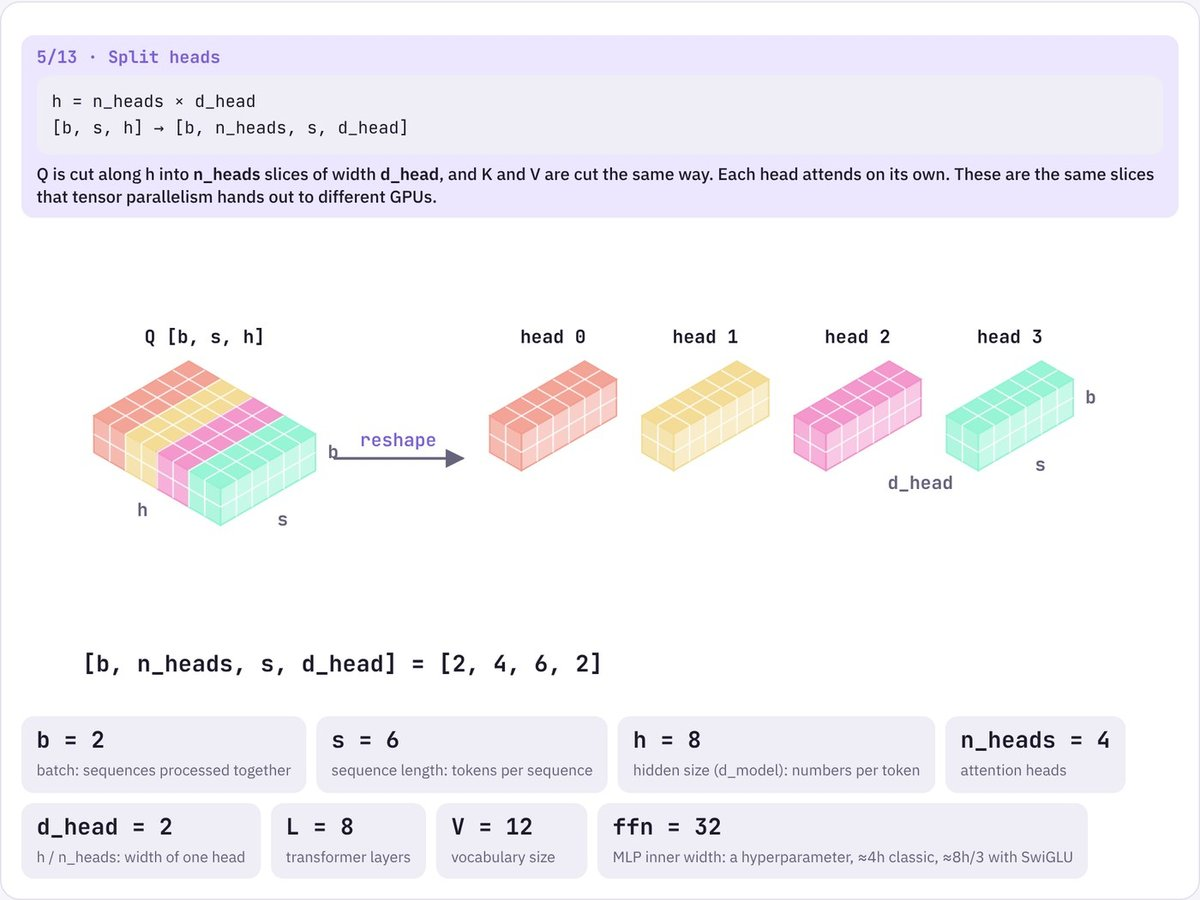
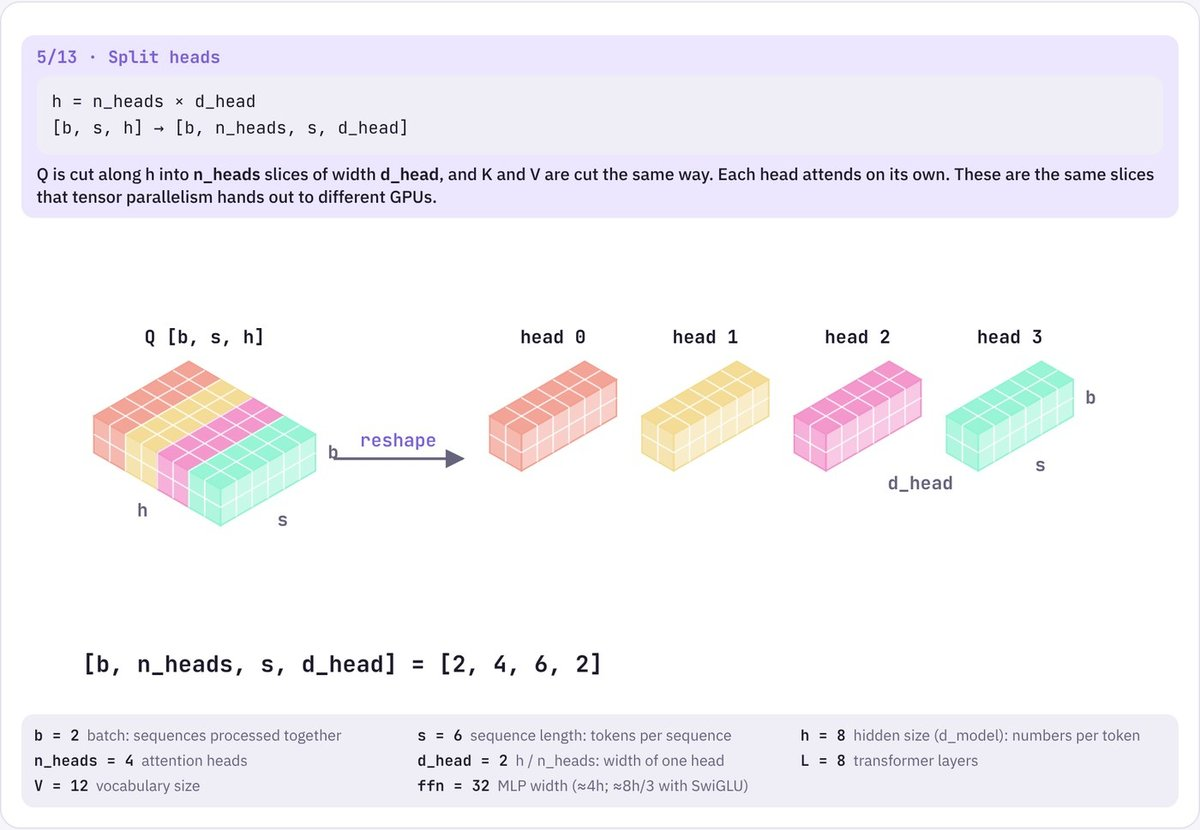
chore(posts): refresh figures (compact size list) (#25)
Claude-Session: https://claude.ai/code/session_01UFQWSUsJMaVbTV8uBDUF1U

diff --git a/posts/2026-11-14-how-llm-inference-works-visual-guide/index.html b/posts/2026-11-14-how-llm-inference-works-visual-guide/index.html
@@ -7,7 +7,7 @@
   <meta name="description" content="What a transformer computes at each step, and how serving systems make it fast: batching, KV cache, parallelism, attention variants and more, each shown as a visual of tensor shapes.">
   <meta property="og:title" content="How LLM Inference Works: A Visual Guide to the Core Concepts">
   <meta property="og:description" content="What a transformer computes at each step, and how serving systems make it fast: batching, KV cache, parallelism, attention variants and more, each shown as a visual of tensor shapes.">
-  <meta property="og:image" content="https://raw.githubusercontent.com/ylnhari/blog/main/posts/2026-11-14-how-llm-inference-works-visual-guide/images/01-architecture.jpg?v=5">
+  <meta property="og:image" content="https://raw.githubusercontent.com/ylnhari/blog/main/posts/2026-11-14-how-llm-inference-works-visual-guide/images/01-architecture.jpg?v=6">
   <title>How LLM Inference Works: A Visual Guide to the Core Concepts</title>
   <link rel="stylesheet" href="../../assets/style.css">
 </head>
@@ -42,7 +42,7 @@
 
 <p>A language model has exactly one job: <strong>given the text so far, predict the next token</strong>. A token is a word or a piece of a word. Everything else is machinery for that single prediction. Here is the machinery, in the shape almost every modern model uses (GPT, Llama, Claude, Gemini, Mistral). Data flows from the bottom to the top:</p>
 
-<img src="https://raw.githubusercontent.com/ylnhari/blog/main/posts/2026-11-14-how-llm-inference-works-visual-guide/images/01-architecture.jpg?v=5" alt="The decoder-only transformer, bottom to top: the tokenizer turns text into IDs, the embedding turns IDs into vectors, then a block of norm, attention, add, norm, MLP, add repeats L times, and finally an LM head and softmax pick the next token, which is appended to the input for the next round.">
+<img src="https://raw.githubusercontent.com/ylnhari/blog/main/posts/2026-11-14-how-llm-inference-works-visual-guide/images/01-architecture.jpg?v=6" alt="The decoder-only transformer, bottom to top: the tokenizer turns text into IDs, the embedding turns IDs into vectors, then a block of norm, attention, add, norm, MLP, add repeats L times, and finally an LM head and softmax pick the next token, which is appended to the input for the next round.">
 
 <p>In plain words:</p>
 
@@ -67,7 +67,7 @@
 
 <p>The query of "it" is compared with the key of every earlier word. A step called <strong>softmax</strong> turns those match scores into shares that add up to 100%. The best matches get the biggest share, and the new vector for "it" becomes a weighted mix of their values:</p>
 
-<img src="https://raw.githubusercontent.com/ylnhari/blog/main/posts/2026-11-14-how-llm-inference-works-visual-guide/images/02-attention.jpg?v=5" alt="Attention for the query "it": arcs show most of the weight, 65%, going to "animal", so the new vector for "it" is mostly the meaning of "animal". Below, the three steps: raw scores, softmax weights, and the mixed output.">
+<img src="https://raw.githubusercontent.com/ylnhari/blog/main/posts/2026-11-14-how-llm-inference-works-visual-guide/images/02-attention.jpg?v=6" alt="Attention for the query "it": arcs show most of the weight, 65%, going to "animal", so the new vector for "it" is mostly the meaning of "animal". Below, the three steps: raw scores, softmax weights, and the mixed output.">
 
 <p>A model runs many of these lookups side by side, called <strong>heads</strong>. Each head has its own query, key and value weights, so each learns to look for something different: one might link pronouns to nouns, another might focus on the previous word. Words in the future are hidden, because a model that predicts the next word cannot be allowed to peek at it.</p>
 
@@ -75,7 +75,7 @@
 
 <p>Once text is inside the model, everything is a block of numbers with a <strong>shape</strong>. Here is the query block from attention, drawn in 3D and cut into one slice per head:</p>
 
-<img src="https://raw.githubusercontent.com/ylnhari/blog/main/posts/2026-11-14-how-llm-inference-works-visual-guide/images/03-tensor-shapes.jpg?v=5" alt="The query tensor [b, s, h] drawn as a 3D block and cut along h into four colour-coded heads, each one head wide, with the shape glossary below.">
+<img src="https://raw.githubusercontent.com/ylnhari/blog/main/posts/2026-11-14-how-llm-inference-works-visual-guide/images/03-tensor-shapes.jpg?v=6" alt="The query tensor [b, s, h] drawn as a 3D block and cut along h into four colour-coded heads, each one head wide, with the shape glossary below.">
 
 <p>Nearly every paper about LLM systems writes the main block as <code>[b, s, h]</code>:</p>
 
@@ -91,15 +91,15 @@
 
 <p>Running a model happens in two very different phases. First, the whole prompt goes through at once. This phase is called <strong>prefill</strong>. All the prompt tokens form one big matrix, and the GPU's arithmetic units are kept busy:</p>
 
-<img src="https://raw.githubusercontent.com/ylnhari/blog/main/posts/2026-11-14-how-llm-inference-works-visual-guide/images/04-prefill.jpg?v=5" alt="Prefill: five prompt tokens form a 5-row matrix X that is multiplied by the weights W in one pass, and their keys and values fill the KV cache. The compute bar is nearly full.">
+<img src="https://raw.githubusercontent.com/ylnhari/blog/main/posts/2026-11-14-how-llm-inference-works-visual-guide/images/04-prefill.jpg?v=6" alt="Prefill: five prompt tokens form a 5-row matrix X that is multiplied by the weights W in one pass, and their keys and values fill the KV cache. The compute bar is nearly full.">
 
 <p>Then the reply is written one token at a time. This phase is called <strong>decode</strong>. Each step multiplies a single row by the <em>same</em> full set of weights, which must be read from GPU memory again every step. The arithmetic is tiny, but the reading is huge, so the GPU spends most of its time waiting on memory:</p>
 
-<img src="https://raw.githubusercontent.com/ylnhari/blog/main/posts/2026-11-14-how-llm-inference-works-visual-guide/images/05-decode.jpg?v=5" alt="Decode: a single new token is a 1-row matrix multiplied by the full weight matrix. Only one KV entry is added, and the compute bar is nearly empty: the step is limited by memory, not maths.">
+<img src="https://raw.githubusercontent.com/ylnhari/blog/main/posts/2026-11-14-how-llm-inference-works-visual-guide/images/05-decode.jpg?v=6" alt="Decode: a single new token is a 1-row matrix multiplied by the full weight matrix. Only one KV entry is added, and the compute bar is nearly empty: the step is limited by memory, not maths.">
 
 <p>To avoid recomputing the past at every step, the model saves each token's keys and values in a <strong>KV cache</strong>. The cache grows with every token and every conversation. A 7-billion-parameter model in 16-bit precision needs <a href="https://developer.nvidia.com/blog/mastering-llm-techniques-inference-optimization/">about 14 GB</a> just for its weights, and one 4,096-token conversation adds <a href="https://developer.nvidia.com/blog/mastering-llm-techniques-inference-optimization/">about 2 GB</a> of cache. Multiply that by dozens of users and memory runs out long before arithmetic does:</p>
 
-<img src="https://raw.githubusercontent.com/ylnhari/blog/main/posts/2026-11-14-how-llm-inference-works-visual-guide/images/06-kv-cache.jpg?v=5" alt="KV cache calculator for Llama 2 7B at batch 1 and 4,096 tokens: 14 GB of weights plus 2.15 GB of KV cache on an 80 GB GPU, with the formula filled in.">
+<img src="https://raw.githubusercontent.com/ylnhari/blog/main/posts/2026-11-14-how-llm-inference-works-visual-guide/images/06-kv-cache.jpg?v=6" alt="KV cache calculator for Llama 2 7B at batch 1 and 4,096 tokens: 14 GB of weights plus 2.15 GB of KV cache on an 80 GB GPU, with the formula filled in.">
 
 <blockquote>During decode, the GPU is not busy doing maths. It is busy fetching numbers from memory.</blockquote>
 
@@ -109,11 +109,11 @@
 
 <p>If decode spends its time reading the weights, the obvious fix is to make each read count for more. Put several conversations in one <strong>batch</strong>, and every read of the weights serves all of them at once. The catch is that replies finish at different times. In <strong>static batching</strong>, the whole batch waits for its longest reply, and finished slots sit empty. In <strong>in-flight batching</strong> (also called continuous batching), a finished conversation leaves straight away and a waiting one takes its slot on the next step:</p>
 
-<img src="https://raw.githubusercontent.com/ylnhari/blog/main/posts/2026-11-14-how-llm-inference-works-visual-guide/images/07-batching.jpg?v=5" alt="Two timelines of four batch slots. Static batching takes 31 steps with slots idle 40% of the time while waiting for the longest request; in-flight batching refills each slot as soon as it frees up and finishes the same twelve requests in 23 steps.">
+<img src="https://raw.githubusercontent.com/ylnhari/blog/main/posts/2026-11-14-how-llm-inference-works-visual-guide/images/07-batching.jpg?v=6" alt="Two timelines of four batch slots. Static batching takes 31 steps with slots idle 40% of the time while waiting for the longest request; in-flight batching refills each slot as soon as it frees up and finishes the same twelve requests in 23 steps.">
 
 <p>Batching only helps if there is room in memory for many KV caches. Older servers reserved one long, unbroken stretch of memory per conversation, sized for the longest reply it <em>might</em> write. NVIDIA's example: a model with a 2,048-token limit <a href="https://developer.nvidia.com/blog/mastering-llm-techniques-inference-optimization/">reserves room for all 2,048 tokens</a> even when the reply is short, and the unused part is wasted. <strong>PagedAttention</strong> borrows an idea from operating systems. It cuts the cache into small fixed-size blocks, hands them out only as tokens arrive, and keeps a table of which block lives where, so a conversation's blocks need not sit next to each other:</p>
 
-<img src="https://raw.githubusercontent.com/ylnhari/blog/main/posts/2026-11-14-how-llm-inference-works-visual-guide/images/08-paged-attention.jpg?v=5" alt="KV memory drawn as 32 physical blocks of 8 token slots, shared by eight requests whose blocks are scattered across memory. A block table maps each request's logical blocks to physical ones; 89% of memory now holds real tokens.">
+<img src="https://raw.githubusercontent.com/ylnhari/blog/main/posts/2026-11-14-how-llm-inference-works-visual-guide/images/08-paged-attention.jpg?v=6" alt="KV memory drawn as 32 physical blocks of 8 token slots, shared by eight requests whose blocks are scattered across memory. A block table maps each request's logical blocks to physical ones; 89% of memory now holds real tokens.">
 
 <p>Less waste per conversation means more conversations fit, which means bigger batches, which means each read of the weights does more work. Serving engines such as vLLM and TensorRT-LLM use both ideas.</p>
 
@@ -121,13 +121,13 @@
 
 <p>The KV cache holds a key and a value for every head. But the heads do not each need their own. In <strong>grouped-query attention</strong> (GQA), several query heads share one key head and one value head, so the cache shrinks by the size of the group. <strong>Multi-query attention</strong> (MQA) is the extreme case, where every query head shares a single key and value head. Llama 2 70B is <a href="https://developer.nvidia.com/blog/mastering-llm-techniques-inference-optimization/">one well-known model that uses GQA</a>:</p>
 
-<img src="https://raw.githubusercontent.com/ylnhari/blog/main/posts/2026-11-14-how-llm-inference-works-visual-guide/images/09-gqa.jpg?v=5" alt="Eight query heads, Q0 to Q7, wired to only two key/value heads: Q0 to Q3 share K0 and V0, Q4 to Q7 share K1 and V1. The KV cache is 25% of what standard multi-head attention would need.">
+<img src="https://raw.githubusercontent.com/ylnhari/blog/main/posts/2026-11-14-how-llm-inference-works-visual-guide/images/09-gqa.jpg?v=6" alt="Eight query heads, Q0 to Q7, wired to only two key/value heads: Q0 to Q3 share K0 and V0, Q4 to Q7 share K1 and V1. The KV cache is 25% of what standard multi-head attention would need.">
 
 <p>Sharing heads costs a little quality, and an existing model can be converted rather than retrained: NVIDIA notes that turning a model into MQA needs fine-tuning on <a href="https://developer.nvidia.com/blog/mastering-llm-techniques-inference-optimization/">about 5% of the original training volume</a>.</p>
 
 <p>The second cost in attention is less obvious. Standard attention builds the full table of scores, one for every pair of tokens, and writes that table to the GPU's large but slow main memory (HBM) and reads it back. For long inputs that table is enormous. <strong>FlashAttention</strong> never builds it. It works on one small tile at a time inside the GPU's tiny but very fast on-chip memory (SRAM), keeping a running total so the softmax still comes out exactly right:</p>
 
-<img src="https://raw.githubusercontent.com/ylnhari/blog/main/posts/2026-11-14-how-llm-inference-works-visual-guide/images/10-flash-attention.jpg?v=5" alt="FlashAttention: Q, K and V stay in HBM, but the N by N score matrix is never stored. Only one tile exists at a time, in SRAM, while a running maximum and sum accumulate the output. Score traffic through HBM drops to zero, with the same O(N squared) compute and an exact result.">
+<img src="https://raw.githubusercontent.com/ylnhari/blog/main/posts/2026-11-14-how-llm-inference-works-visual-guide/images/10-flash-attention.jpg?v=6" alt="FlashAttention: Q, K and V stay in HBM, but the N by N score matrix is never stored. Only one tile exists at a time, in SRAM, while a running maximum and sum accumulate the output. Score traffic through HBM drops to zero, with the same O(N squared) compute and an exact result.">
 
 <p>The maths is the same, and so is the answer. What changes is how many times data crosses the slow path to main memory. That is the theme of this whole guide again.</p>
 
@@ -137,23 +137,23 @@
 
 <p><strong>Quantization</strong> stores each number with fewer bits. Models are usually trained with 16 or 32 bits per value, but most can be represented <a href="https://developer.nvidia.com/blog/mastering-llm-techniques-inference-optimization/">with eight or even fewer</a>. Each weight snaps to the nearest of a small set of levels:</p>
 
-<img src="https://raw.githubusercontent.com/ylnhari/blog/main/posts/2026-11-14-how-llm-inference-works-visual-guide/images/11-quantization.jpg?v=5" alt="Weights from a bell-shaped distribution, top, each snapped down to one of 15 evenly spaced INT4 levels, bottom. The mean error is 0.118, and a 7B model's weights fall to 3.5 GB.">
+<img src="https://raw.githubusercontent.com/ylnhari/blog/main/posts/2026-11-14-how-llm-inference-works-visual-guide/images/11-quantization.jpg?v=6" alt="Weights from a bell-shaped distribution, top, each snapped down to one of 15 evenly spaced INT4 levels, bottom. The mean error is 0.118, and a 7B model's weights fall to 3.5 GB.">
 
 <p>Weights are the easy part, because they are fixed after training. The values flowing through the model are harder, because they contain occasional very large <strong>outliers</strong>. One outlier stretches the scale, and every other value loses precision. Much of the research in this area is about handling those outliers.</p>
 
 <p><strong>Sparsity</strong> sets some weights to zero. Random zeros barely help, because the GPU still has to check every position. But recent NVIDIA GPUs have hardware for one fixed pattern: <a href="https://developer.nvidia.com/blog/mastering-llm-techniques-inference-optimization/">two zeros in every group of four</a>. The zeros are dropped from storage, a small index records where the survivors were, and the hardware skips the missing work:</p>
 
-<img src="https://raw.githubusercontent.com/ylnhari/blog/main/posts/2026-11-14-how-llm-inference-works-visual-guide/images/12-sparsity.jpg?v=5" alt="A 4 by 16 weight matrix pruned 2:4: in every group of four values, the two smallest are set to zero, shown hatched. 32 non-zero values are stored with a small metadata index.">
+<img src="https://raw.githubusercontent.com/ylnhari/blog/main/posts/2026-11-14-how-llm-inference-works-visual-guide/images/12-sparsity.jpg?v=6" alt="A 4 by 16 weight matrix pruned 2:4: in every group of four values, the two smallest are set to zero, shown hatched. 32 non-zero values are stored with a small metadata index.">
 
 <p><strong>Distillation</strong> trains a smaller <em>student</em> model to copy a larger <em>teacher</em>. The trick is to learn from the teacher's whole spread of guesses rather than only the right answer. "Mat" is correct, but "rug" being a close second carries information too. The classic result is DistilBERT, which <a href="https://developer.nvidia.com/blog/mastering-llm-techniques-inference-optimization/">compresses BERT by 40% while keeping 97% of its language understanding, and runs 60% faster</a>:</p>
 
-<img src="https://raw.githubusercontent.com/ylnhari/blog/main/posts/2026-11-14-how-llm-inference-works-visual-guide/images/13-distillation.jpg?v=5" alt="Next-word probabilities for 'The cat sat on the ___'. The hard label puts everything on 'mat'; the teacher's soft target gives mat 66%, rug 16%, floor 11%, sofa 6%. The student is trained on a mix of both.">
+<img src="https://raw.githubusercontent.com/ylnhari/blog/main/posts/2026-11-14-how-llm-inference-works-visual-guide/images/13-distillation.jpg?v=6" alt="Next-word probabilities for 'The cat sat on the ___'. The hard label puts everything on 'mat'; the teacher's soft target gives mat 66%, rug 16%, floor 11%, sofa 6%. The student is trained on a mix of both.">
 
 <h2>7. Guessing ahead</h2>
 
 <p>Decode is slow because each token waits for the one before it. <strong>Speculative decoding</strong> gets around that. A small, fast <em>draft</em> model guesses the next few tokens. The big model then checks all the guesses in a single pass, which costs about the same as producing one token, because the weights are read once either way. It keeps the guesses up to the first wrong one, and adds its own token at that point:</p>
 
-<img src="https://raw.githubusercontent.com/ylnhari/blog/main/posts/2026-11-14-how-llm-inference-works-visual-guide/images/14-speculative-decoding.jpg?v=5" alt="After the prompt 'I saw a dog ride', the draft model guesses 'in the bus'. The verifier agrees with 'in the' and replaces 'bus' with 'car', so one pass of the big model produces three tokens.">
+<img src="https://raw.githubusercontent.com/ylnhari/blog/main/posts/2026-11-14-how-llm-inference-works-visual-guide/images/14-speculative-decoding.jpg?v=6" alt="After the prompt 'I saw a dog ride', the draft model guesses 'in the bus'. The verifier agrees with 'in the' and replaces 'bus' with 'car', so one pass of the big model produces three tokens.">
 
 <p>The output is exactly what the big model would have written on its own. When the draft guesses well, several tokens come out of each pass of the big model. When it guesses badly, you lose a little time on the draft and nothing else.</p>
 
@@ -163,35 +163,35 @@
 
 <p>At two bytes per number, a 70-billion-parameter model is 140 GB of weights, already more than a common 80 GB data-centre GPU holds, before any KV cache. So big models are split across several GPUs. There are a few ways to make the split, and each answers the same question: <strong>which dimension of which block gets cut, and what has to travel between GPUs as a result?</strong></p>
 
-<img src="https://raw.githubusercontent.com/ylnhari/blog/main/posts/2026-11-14-how-llm-inference-works-visual-guide/images/15-gpus-needed.jpg?v=5" alt="Each box is one 80 GB GPU filled with weights only: 7B and 13B models fit on one, a 70B model needs at least two, and a 405B model needs at least eleven.">
+<img src="https://raw.githubusercontent.com/ylnhari/blog/main/posts/2026-11-14-how-llm-inference-works-visual-guide/images/15-gpus-needed.jpg?v=6" alt="Each box is one 80 GB GPU filled with weights only: 7B and 13B models fit on one, a 70B model needs at least two, and a 405B model needs at least eleven.">
 
 <p>The simplest is <strong>data parallelism</strong>: copy the whole model onto every GPU and send different conversations to each. It multiplies throughput and needs no communication, but it only works if the model fits on one GPU in the first place:</p>
 
-<img src="https://raw.githubusercontent.com/ylnhari/blog/main/posts/2026-11-14-how-llm-inference-works-visual-guide/images/16-data-parallel.jpg?v=5" alt="Data parallelism: four GPUs each hold a full 14 GB copy of a 7B model and serve different requests, with no traffic between them.">
+<img src="https://raw.githubusercontent.com/ylnhari/blog/main/posts/2026-11-14-how-llm-inference-works-visual-guide/images/16-data-parallel.jpg?v=6" alt="Data parallelism: four GPUs each hold a full 14 GB copy of a 7B model and serve different requests, with no traffic between them.">
 
 <p><strong>Pipeline parallelism</strong> gives each GPU a slice of the layers, like an assembly line. With four stages, each GPU holds <a href="https://developer.nvidia.com/blog/mastering-llm-techniques-inference-optimization/">a quarter of the weights</a>. The problem is waiting: GPU 3 has nothing to do until GPU 0 has finished. Splitting the batch into smaller <strong>microbatches</strong> keeps more stages busy at once, but the idle "bubble" at the start and end never fully goes away:</p>
 
-<img src="https://raw.githubusercontent.com/ylnhari/blog/main/posts/2026-11-14-how-llm-inference-works-visual-guide/images/17-pipeline-parallel.jpg?v=5" alt="Pipeline parallelism: 32 layers split into four stages on four GPUs. With the batch split into four microbatches, each GPU starts one step after the one before it; hatched areas show idle time, 43% of the total.">
+<img src="https://raw.githubusercontent.com/ylnhari/blog/main/posts/2026-11-14-how-llm-inference-works-visual-guide/images/17-pipeline-parallel.jpg?v=6" alt="Pipeline parallelism: 32 layers split into four stages on four GPUs. With the batch split into four microbatches, each GPU starts one step after the one before it; hatched areas show idle time, 43% of the total.">
 
 <p>Pipelining helps a model fit and adds throughput once the pipeline is full. It never makes a single request faster.</p>
 
 <p><strong>Tensor parallelism</strong> splits the weight matrices <em>inside</em> every layer, so all GPUs work on every token together. It rests on one neat trick. Split the MLP's first weight matrix by columns and the second by rows. Each GPU can then do both multiplications on its own half, with no talking in between, and one combining step at the end (an <strong>All-Reduce</strong>) adds the halves up:</p>
 
-<img src="https://raw.githubusercontent.com/ylnhari/blog/main/posts/2026-11-14-how-llm-inference-works-visual-guide/images/18-tp-matmul-trick.jpg?v=5" alt="Tensor parallelism in the MLP: A is split by columns and B by rows, so each GPU computes its own half and a partial sum, and one All-Reduce combines them. There is no communication between the two matrix multiplies.">
+<img src="https://raw.githubusercontent.com/ylnhari/blog/main/posts/2026-11-14-how-llm-inference-works-visual-guide/images/18-tp-matmul-trick.jpg?v=6" alt="Tensor parallelism in the MLP: A is split by columns and B by rows, so each GPU computes its own half and a partial sum, and one All-Reduce combines them. There is no communication between the two matrix multiplies.">
 
 <p>That combining step happens twice in every layer, so tensor parallelism needs the very fast links found <em>inside</em> one server. Real systems mix the methods: tensor parallelism inside a server, pipeline parallelism across servers, and data parallelism to add more copies for more users. Here is one such layout, sixteen GPUs in two servers:</p>
 
-<img src="https://raw.githubusercontent.com/ylnhari/blog/main/posts/2026-11-14-how-llm-inference-works-visual-guide/images/21-combined-parallelism.jpg?v=5" alt="Two servers of eight GPUs. Inside each server, eight GPUs form one tensor-parallel group sharing the fast NVLink connection; the two servers are independent copies, so data parallelism of 2 doubles throughput.">
+<img src="https://raw.githubusercontent.com/ylnhari/blog/main/posts/2026-11-14-how-llm-inference-works-visual-guide/images/21-combined-parallelism.jpg?v=6" alt="Two servers of eight GPUs. Inside each server, eight GPUs form one tensor-parallel group sharing the fast NVLink connection; the two servers are independent copies, so data parallelism of 2 doubles throughput.">
 
 <h2>9. The copies tensor parallelism leaves behind</h2>
 
 <p>Tensor parallelism has a blind spot. Between the split blocks, every GPU holds the <em>same</em> full block of <strong>activations</strong> (the in-between numbers that flow from one layer to the next) and runs the same normalisation step on it. The same data, stored twice:</p>
 
-<img src="https://raw.githubusercontent.com/ylnhari/blog/main/posts/2026-11-14-how-llm-inference-works-visual-guide/images/19-tp-copies.jpg?v=5" alt="Under tensor parallelism, LayerNorm runs on an identical full [b, s, h] block on both GPUs: activations at 100% on each, marked as duplicates.">
+<img src="https://raw.githubusercontent.com/ylnhari/blog/main/posts/2026-11-14-how-llm-inference-works-visual-guide/images/19-tp-copies.jpg?v=6" alt="Under tensor parallelism, LayerNorm runs on an identical full [b, s, h] block on both GPUs: activations at 100% on each, marked as duplicates.">
 
 <p>Normalisation treats each token on its own, so the fix is to cut that block along the <strong>sequence</strong> instead: each GPU handles half the tokens. This is called <strong>sequence parallelism</strong>, and it removes the copies without adding any communication:</p>
 
-<img src="https://raw.githubusercontent.com/ylnhari/blog/main/posts/2026-11-14-how-llm-inference-works-visual-guide/images/20-sequence-split.jpg?v=5" alt="Sequence parallelism: the same block cut along s, so GPU 0 holds tokens 0 to 3 and GPU 1 holds tokens 4 to 7, each at 50% of the activation memory with no copies.">
+<img src="https://raw.githubusercontent.com/ylnhari/blog/main/posts/2026-11-14-how-llm-inference-works-visual-guide/images/20-sequence-split.jpg?v=6" alt="Sequence parallelism: the same block cut along s, so GPU 0 holds tokens 0 to 3 and GPU 1 holds tokens 4 to 7, each at 50% of the activation memory with no copies.">
 
 <p>The research that introduced this pairing reports that, together with smarter recomputation, it <a href="https://arxiv.org/abs/2205.05198">cuts activation memory by 5×</a>.</p>
 
@@ -199,7 +199,7 @@
 
 <p>One more trick changes the model itself. In a <strong>mixture-of-experts</strong> (MoE) model, the single MLP in each block is replaced by several smaller MLPs, called <em>experts</em>, plus a tiny <strong>router</strong> that picks a few experts for each token. Every other expert sits idle for that token:</p>
 
-<img src="https://raw.githubusercontent.com/ylnhari/blog/main/posts/2026-11-14-how-llm-inference-works-visual-guide/images/23-mixture-of-experts.jpg?v=5" alt="A mixture-of-experts layer: the router sends the token 'The' to two of eight experts, expert 0 with weight 0.49 and expert 4 with weight 0.51, while the other six stay idle. The output is the weighted sum of the two chosen experts, and the shape stays [b, s, h].">
+<img src="https://raw.githubusercontent.com/ylnhari/blog/main/posts/2026-11-14-how-llm-inference-works-visual-guide/images/23-mixture-of-experts.jpg?v=6" alt="A mixture-of-experts layer: the router sends the token 'The' to two of eight experts, expert 0 with weight 0.49 and expert 4 with weight 0.51, while the other six stay idle. The output is the weighted sum of the two chosen experts, and the shape stays [b, s, h].">
 
 <p>Mixtral 8×7B is the well-known example: it has <a href="https://mistral.ai/news/mixtral-of-experts">eight experts per block and uses two of them for each token</a>, so it <a href="https://mistral.ai/news/mixtral-of-experts">stores 46.7B parameters but uses only 12.9B per token</a>. That split matters for serving. The memory you need follows the total, because every expert has to be loaded. The work per token follows the active part, so a token costs about what a much smaller model would. When the experts no longer fit on one GPU, they are spread across several. That is <strong>expert parallelism</strong>, the fifth way to split a model, and it needs its own communication step to send each token to the GPU that holds its experts.</p>
 
@@ -207,7 +207,7 @@
 
 <p>All of that stored activation memory is mostly a <em>training</em> problem. To learn, a model runs backwards through every layer, and each step backwards needs the numbers that went into that layer on the way forward. Training also stores gradients and optimiser state for every weight. Running a model forward only needs the weights and the KV cache:</p>
 
-<img src="https://raw.githubusercontent.com/ylnhari/blog/main/posts/2026-11-14-how-llm-inference-works-visual-guide/images/22-training-memory.jpg?v=5" alt="Estimated memory for a 7B model at 4,096 tokens: about 16 GB to serve (weights plus KV cache) against about 216 GB to train (weights, gradients, optimiser state and stored activations).">
+<img src="https://raw.githubusercontent.com/ylnhari/blog/main/posts/2026-11-14-how-llm-inference-works-visual-guide/images/22-training-memory.jpg?v=6" alt="Estimated memory for a 7B model at 4,096 tokens: about 16 GB to serve (weights plus KV cache) against about 216 GB to train (weights, gradients, optimiser state and stored activations).">
 
 <p>The training bar is an estimate. It assumes the usual 16 bytes per weight for training with the Adam optimiser in mixed precision, plus the per-layer activation formula from <a href="https://arxiv.org/abs/2205.05198">the same sequence-parallelism paper</a>. The interactive page lets you switch on recomputation and watch the activation bar collapse.</p>
 
